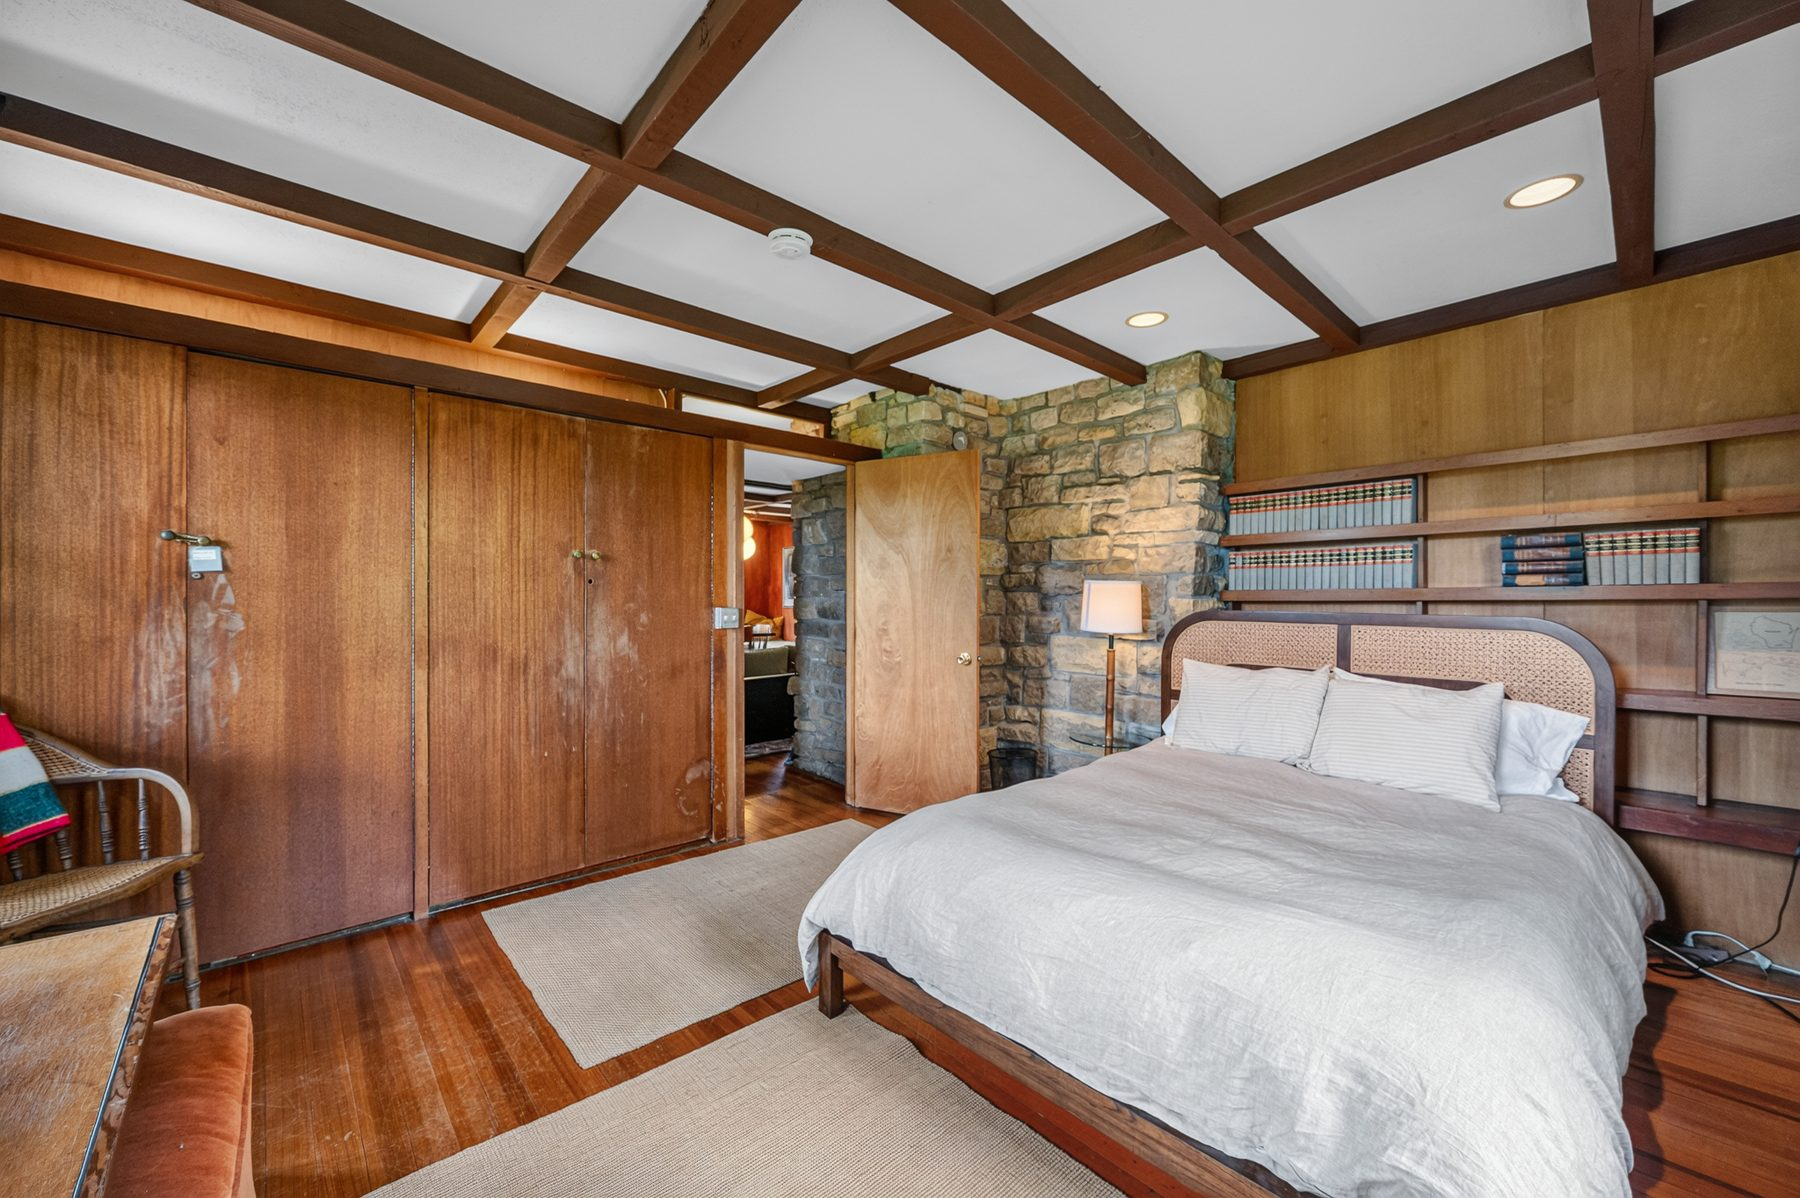
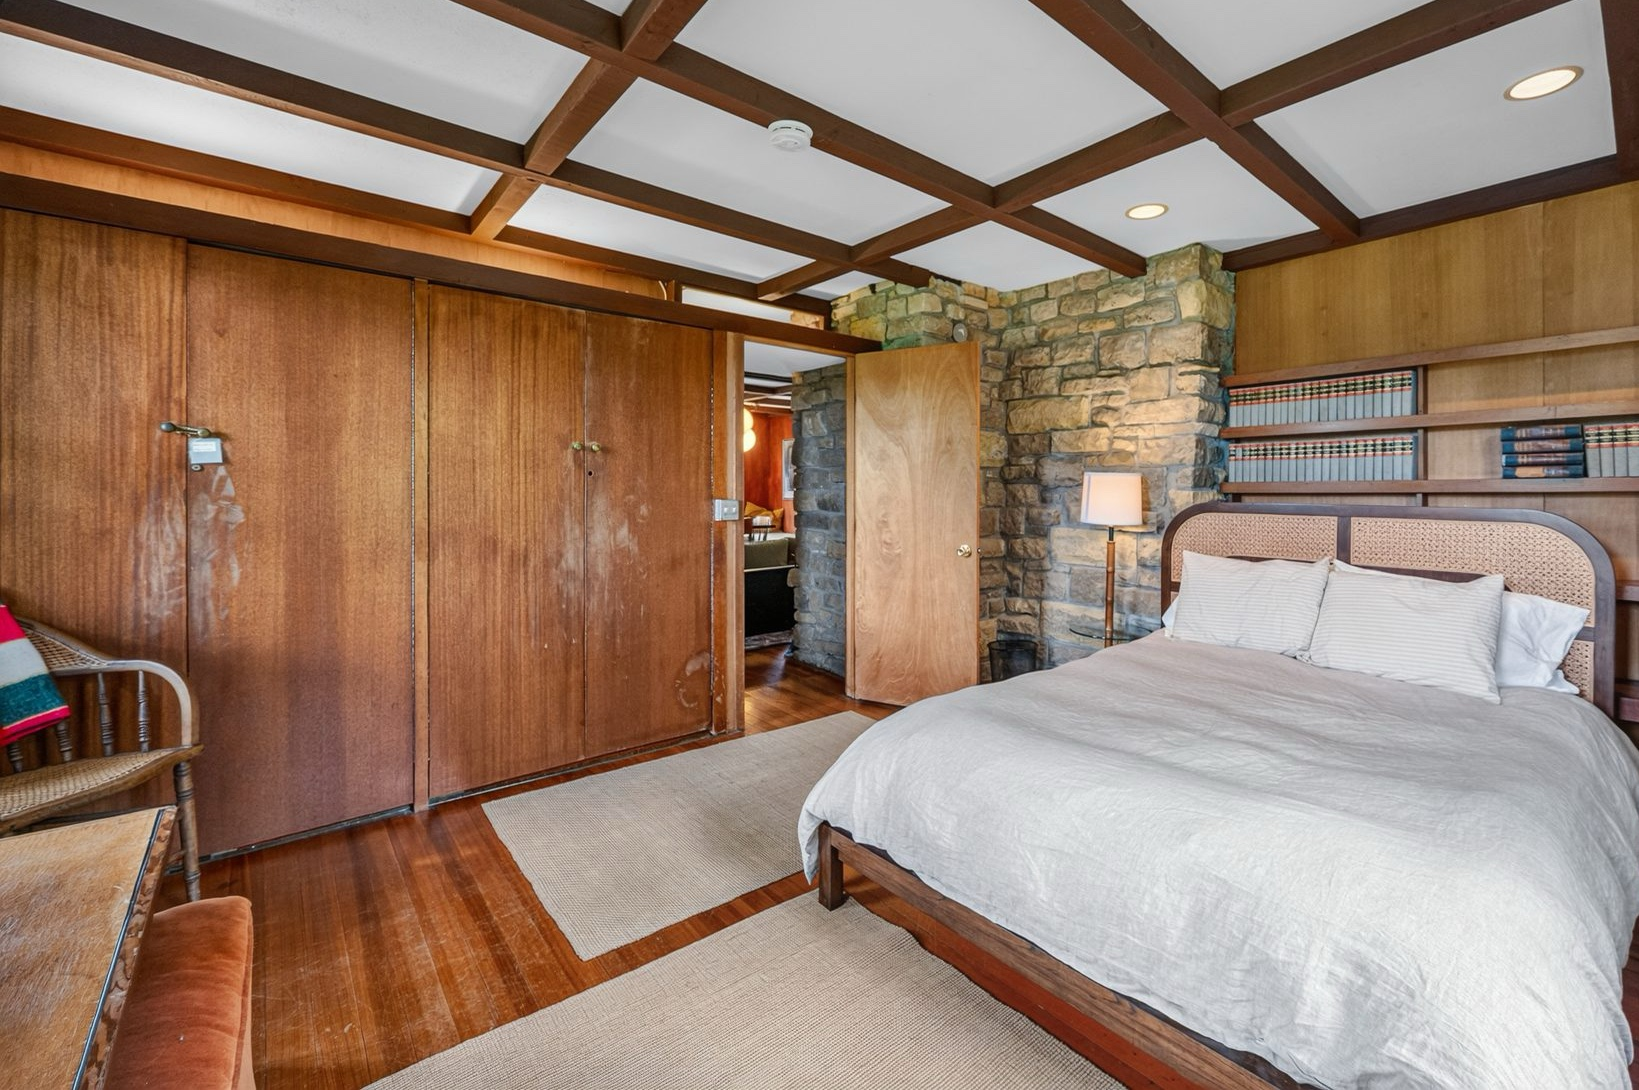
Cull three weaker gallery photos and swap in reshot bathroom/bedroom images

diff --git a/content/gallery.ts b/content/gallery.ts
@@ -51,7 +51,6 @@ export const galleryCategories: GalleryCategory[] = [
       { src: "/images/gallery/kitchen/tz-1.jpg", alt: "Kitchen at Aldebaran Farm" },
       { src: "/images/gallery/kitchen/tz-2.jpg", alt: "Kitchen at Aldebaran Farm" },
       { src: "/images/gallery/kitchen/tz-3.jpg", alt: "Kitchen at Aldebaran Farm" },
-      { src: "/images/gallery/kitchen/tz-4.jpg", alt: "Kitchen at Aldebaran Farm" },
     ],
   },
   {
@@ -63,19 +62,11 @@ export const galleryCategories: GalleryCategory[] = [
         alt: "Living & Dining Room at Aldebaran Farm",
       },
       {
-        src: "/images/gallery/living-dining/tz-10.jpg",
-        alt: "Living & Dining Room at Aldebaran Farm",
-      },
-      {
         src: "/images/gallery/living-dining/tz-13.jpg",
         alt: "Living & Dining Room at Aldebaran Farm",
       },
       {
         src: "/images/gallery/living-dining/tz-14.jpg",
-        alt: "Living & Dining Room at Aldebaran Farm",
-      },
-      {
-        src: "/images/gallery/living-dining/tz-11.jpg",
         alt: "Living & Dining Room at Aldebaran Farm",
       },
       {